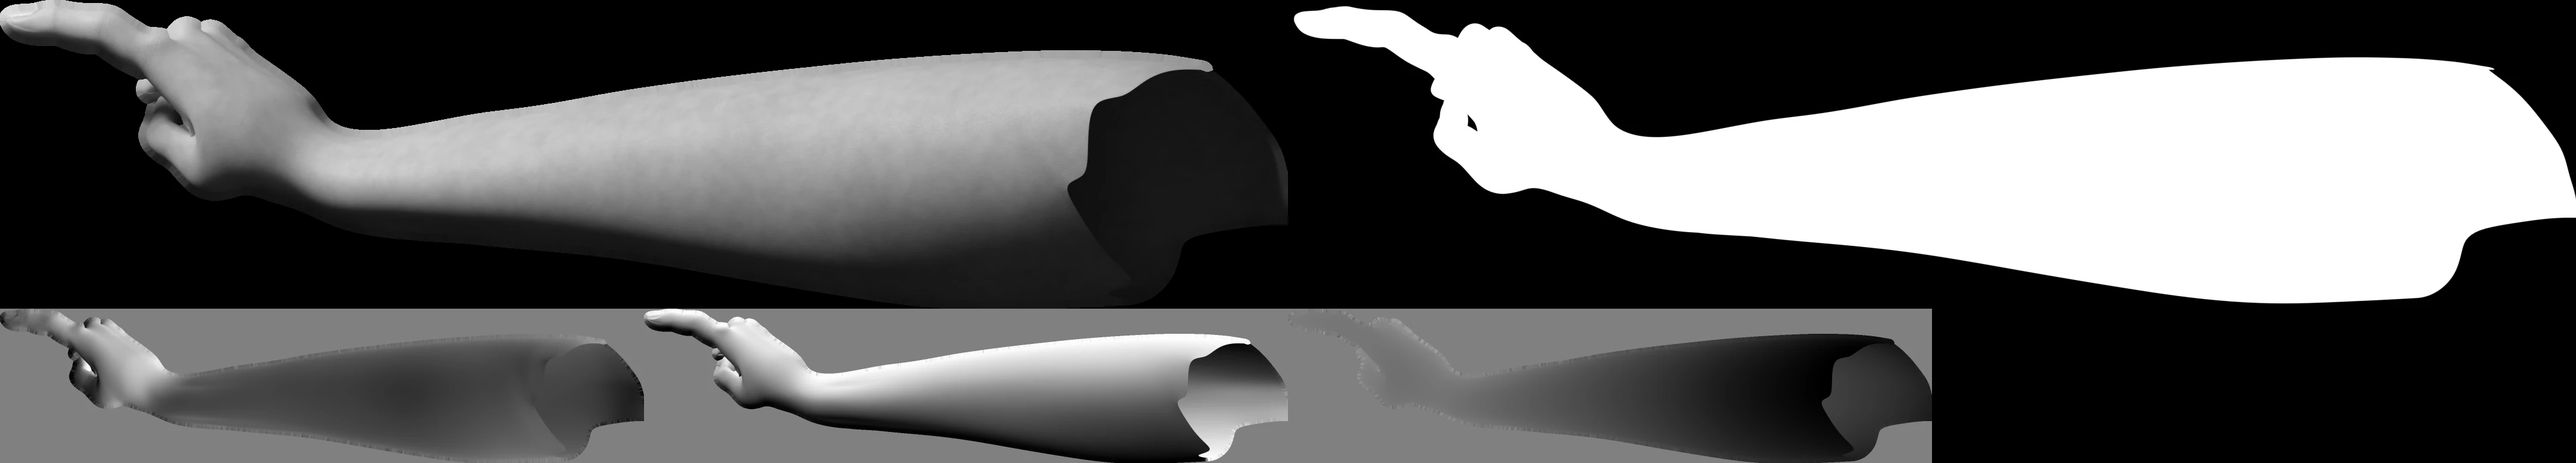
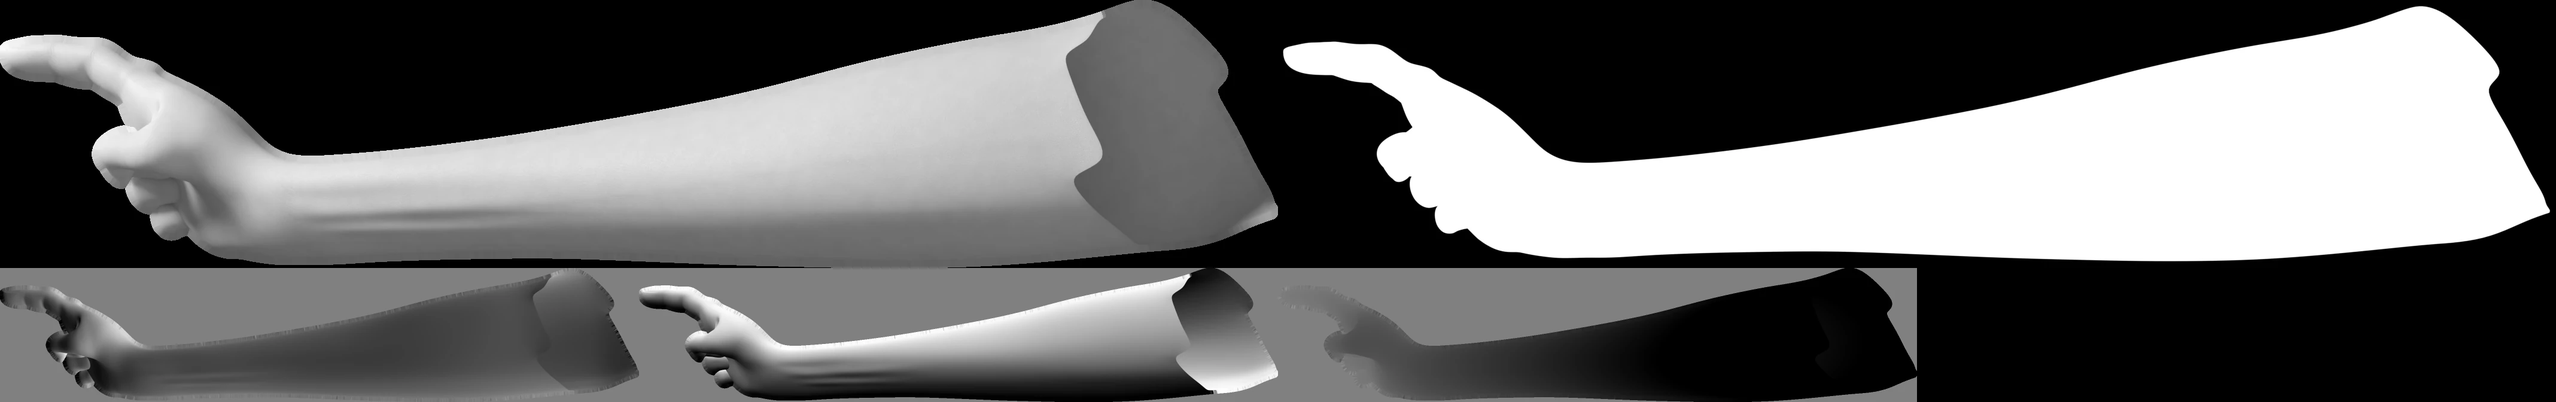
Hand-Pässe siebter Durchgang: Finger per FK um die Kante gelegt mit Kuppen auf dem Rahmen und Lücken 7-11 px, Handgröße 0,88, Daumen 69° über das CMC-Gelenk, Ballen ohne Kerbe, Handgelenk-Taille und Hypothenar, Zeigehand gedreht mit gestuften Fingern und geschlossenem Loch, Unterarm 42,6° mit teilwe

diff --git a/design/HAND.md b/design/HAND.md
@@ -1,30 +1,32 @@
 # HAND: realistische Hände aus Blender
 
-Stand 2026-10-07, sechster Durchgang (Branch `hand-v2`). Die beiden Hände der Engine (Handy-Hand `holdBack`/`holdFront`, Zeigehand `point`) kommen aus gerenderten Daten-Pässen (Leuchtdichte, Alpha, Normale, Tiefe); die Engine zeichnet daraus weiter Halbton-Punkte mit Zeigerlicht. Struktur wie in der Design-Referenz: linke Hand hält das Handy von hinten, Daumen schräg über der linken Rahmenkante, breiter Daumenballen links bis zur Handyunterkante, gestaffelte Fingerkuppen am rechten Rand, Handgelenk und Unterarm laufen unter dem Handy fast senkrecht nach unten; rechte Zeigehand von unten rechts, Zeigefinger steil zur Spitze bei (794, 301), übrige Finger eingerollt, Daumen angelegt, Faust vor dem Bildschirm, Unterarm in etwa 45° zur unteren rechten Ecke.
+Stand 2026-10-07, siebter Durchgang (Branch `hand-v2`). Die beiden Hände der Engine (Handy-Hand `holdBack`/`holdFront`, Zeigehand `point`) kommen aus gerenderten Daten-Pässen (Leuchtdichte, Alpha, Normale, Tiefe); die Engine zeichnet daraus weiter Halbton-Punkte mit Zeigerlicht. Struktur wie in der Design-Referenz: linke Hand hält das Handy von hinten, Daumen schräg über der linken Rahmenkante, breiter Daumenballen links bis zur Handyunterkante, gestaffelte Fingerkuppen am rechten Rand, Handgelenk und Unterarm laufen unter dem Handy fast senkrecht nach unten; rechte Zeigehand von unten rechts, Zeigefinger steil zur Spitze bei (794, 301), übrige Finger eingerollt, Daumen angelegt, Faust vor dem Bildschirm, Unterarm in etwa 45° zur unteren rechten Ecke.
 
-## 0. Was sich im sechsten Durchgang geändert hat
+## 0. Was sich im siebten Durchgang geändert hat
 
-Die Jury hat den fünften Stand (c961d10) mit 5/10 bewertet. Modell (MPFB-Mann), Rig, Pass-Format und Shader bleiben; geändert sind Netz-Korrekturen, Gewichte, Posen, Haut und Messung. Vergleich vorher/nachher: `archiv/hand/v3/doc4/vorher_nachher.png`.
+Die Jury hat den sechsten Stand (8381b42) mit 5/10 bewertet und elf Punkte genannt. Modell (MPFB-Mann), Rig, Pass-Format und Shader bleiben; neu sind die Pose der Handy-Hand (Finger per FK statt IK), die Handgröße, Netzkorrekturen am Daumenballen und Handgelenk, die Zeigehand-Drehung, das Licht der Zeigehand und die Hautfalten. Vergleich und Ausschnitte (Referenz | vorher | neu Halbton | neu Luminanz, 2-fach): `archiv/hand/v3/doc7/`.
 
-- **Hautkeil über dem Daumen:** stammte vom Zeigefinger-Mittelhandknochen hinter dem Handy, der links vom Rahmen über der Daumenkuppe hervorschaute. Die Pose hält ihn jetzt rechts vom Rahmen (Strafterm `wedge`, 20 je Punkt), und `render4.py` maskiert zusätzlich alle Nicht-Daumen-Punkte hinter der Handy-Vorderseite links von x 656 oberhalb der Daumenkuppe als Holdout (Attribut `hold`). Links vom Rahmen ragt oberhalb der Kuppe nichts mehr heraus.
-- **Einschnürung unter dem Daumenballen:** Ursache war das Daumengrundglied, das als Wurst vor dem Handy bis y 680 hing, während das Handgelenk dahinter weiter rechts lag. Neu: Ziel für das Daumen-Grundgelenk (MCP) links unten am Rahmen, Hand um die Längsachse auf −27° gerollt, Handgelenk-Ziel x 640, Konturterm je 20-px-Band (x 560–590, ab y 660 höchstens 570) mit Glattheitsterm (Sprung ≤ 6 px). Gemessen aus `a` (`v3/scripts/leftrows.py`): linke Kontur von y 560 bis 790 zwischen x 559 und 573, Zeile zu Zeile höchstens 4 px Änderung, kein Hals, keine waagerechte Unterkante.
-- **Daumen und Ballen schlanker** (`v3/scripts/sculpt4.py`, im Ruhenetz): Daumen-Grund-/Endglied radial auf 0,72/0,86 um die Knochenachse, Ballen um den Daumen-Mittelhandknochen auf 0,6 eingezogen (zur Handwurzel hin auslaufend 1,25–1,45, damit kein Absatz entsteht). Daumen-Endgelenk per Taubin-Glättung (ohne Volumenverlust) entknotet, IP-Beugung auf höchstens 40° begrenzt (die 72° des fünften Stands quetschten die Haut hinter dem Nagel zu einem Knoten). Keine Venen am Daumen.
-- **Kuppen rechts:** Zeige-, Mittel-, Ring- und kleiner Finger per IK mit vier Knochen (Mittelhand + drei Glieder; Mittelhandknochen ±25°/±12° begrenzt), damit auch Zeige- und kleiner Finger um die Kante reichen; Strafterm für sichtbare Punkte rechts vom Rahmen außerhalb ±28 px um die Ziele (Lücken, kein Schwanz). Optimiert auf dem unterteilten Netz (29 305 Punkte), Zählterme durch die Dichte (16) geteilt.
-- **Gelenkfalten:** Hülle 1,9 mm statt 4,5 mm, Abstand 1,5 mm, also 2–3 flache Querfalten an PIP/DIP/IP statt vieler paralleler Riefen; Daumen-MCP schwächer.
-- **Zeigehand:** Daumen per eigener Optimierung (`opt_pthumb.py`, Raster + Nelder-Mead, Durchdringung per BVH) angelegt, Spitze am Mittelglied des Mittelfingers. Hand um die Zeigefingerachse auf −80° gerollt: Sicht auf Handrücken mit Knöchel-Plateaus, eingerollte Finger liegen hinter der Hand, Faust in der Soll-Box. Größe 0,44 statt 0,42. Unterarm weniger gestreckt (1,5/1,3 statt 1,9/1,4), dafür 1,2–1,3-fach dicker; Strecksehnen und MCP-Knöchel zusätzlich modelliert (`sculpt4.py`, `tendons`), Brachioradialis-Masse proximal +22 %.
-- **Haut** (`v3/scripts/skin4.py`): zusätzlich großflächige Tonvariation (Noise 22/m, Overlay 0,3), Rauigkeit 0,44–0,58 mit Noise statt konstant 0,6, Specular 0,42 statt 0,28 (feuchter Hautglanz statt Gips), Bump 0,42; Nägel 0,36 Rauigkeit mit weicher Glanzlinie. Poren (Voronoi 0,45 mm) und Falten bleiben unter der Halbtonzelle (2,5 px ≈ 0,6 mm).
+- **Kuppen als liegende Fingerglieder:** Die Finger 2–5 werden nicht mehr per IK an Punkte neben der Kante gezogen (das ergab von vorn gesehene Halbkuppeln), sondern je Finger per FK gelöst (`v3/scripts/fing7.py`: Raster + Nelder-Mead über MCP-Beugung, Abspreizung, PIP, DIP; Kosten: Spitze vor dem Rahmen, Durchdringung des Handys, Überstand, Höhe, Bildschirm frei). Die Handlage selbst kommt aus einem Raster über Handgelenk, Richtung, Neigung, Rollen und Handgelenk-Abweichung mit Strafterm für den Handteller im Handy. Die Fingerglieder liegen jetzt schräg um die Kante, die Kuppen greifen auf den Rahmen (bis x ≈ 905–935) und zeigen nach links unten; Mittel- und Endglied sind seitlich zu sehen. Grundglieder 1,04-fach lang, Finger 0,9-fach schlanker (`fsc`, damit die Lücken bleiben).
+- **Handgröße 0,88** statt 1,0 des MPFB-Mannes: Nur so passen Daumenkuppe (y ≈ 390–410), Kuppenreihe (y 220–480) und Handgelenk (y ≈ 770) gleichzeitig in die Referenz-Komposition; bei 1,0 stand der Daumen 13 mm zu hoch oder musste im MCP 78° geknickt werden.
+- **Daumen über das CMC-Gelenk:** MCP-Beugung von 78° auf 41° begrenzt (`mcp_max`), die Neigung kommt aus dem Daumen-Mittelhandknochen; Grund- und Endglied jetzt **69°/69°** (vorher 85°/71°). Ziele für Spitze und IP-Gelenk in `fing7.py` (`thumb.tip`, `thumb.ip`).
+- **Daumenballen als eine Form, Handgelenk-Taille, Hypothenar** (`v3/scripts/sculpt7.py`, Ruhenetz): Ballen um den Daumen-Mittelhandknochen 0,9 statt 0,6 (keine Kerbe unter dem Daumen-MCP), Handgelenk um die Falte radial-ulnar auf 0,84 eingezogen, Hypothenar-Rundung 3,5 mm am ulnaren Handballen. Dazu posenbezogene Korrektur (`v3/scripts/fix7.py`): Verschiebungen im Bildraum der fertigen Pose über die Skinning-Matrizen ins Ruhenetz zurückgerechnet (Wulst am Daumen-MCP 2 mm flacher, Übergang Ballen–Handgelenk per Taubin geglättet). Ergebnis `hands_sc7h.blend`.
+- **Holdout-Kante unten:** Im Haltehand-Pass gibt es keinen Holdout der Zeigehand; die Haltehand ist dort vollständig gerendert. Die gerade Diagonale von der Handy-Ecke war die ulnare Handkante selbst; sie verläuft jetzt als S (Hypothenar-Rundung, Taille, Unterarm). Die waagerechte Kante bei y ≈ 707 ist die Handy-Unterkante (Handy-Holdout 1 % kürzer als das DOM) und liegt unter dem gezeichneten Rahmen.
+- **Zeigehand:** um die Zeigefingerachse von −80° auf −140° gedreht (Sicht schräg auf die Handfläche): Daumen als eigene Form oben auf der Faust, darunter zwei weitere gestufte eingerollte Finger mit dunklen Fugen; das Loch bei (838, 487) ist geschlossen (Alpha dort 1,0). Unterarm 4° flacher (`aang −4`) und schlanker (Unterarmknochen 0,98/1,02 dick statt 1,2/1,3): 42,6° zur Ecke, Tab „Austausch“ zu 39 % frei.
+- **Zeigehand-Licht:** Fülllicht 4,0 statt 0,9, Welt 0,03 (`lights/LP7.json`), Packen mit `--gain 0.88 --lgamma 0.68`: Leuchtdichte über dem Bildschirm im Mittel **165** (vorher 135), Maximum 249, Anteil ≥ 250 = 0; im Halbton-Bild (1280 × 800) Mittel der Zeigehand über dem Bildschirm **154** (vorher 138).
+- **Haut** (`v3/scripts/skin7.py`): Gelenkfalten als 2–3 Bögen (Phase um 0,035 · seitlicher Abstand² gebogen, Rauschen in der Phase, Rille `max(0, cos)^4` mit weicher Schulter, Tiefe je Falte per Rauschen 0,45–1,0, neues Attribut `jl`); großflächige Tonvariation halbiert und gröber (Noise 12/m, Overlay 0,15, Flecken 0,2 statt 0,34); Wolkenrauschen im Relief durch feine Rauigkeit ersetzt (Noise 1600/m, 0,18).
+- **Engine:** Die Verblassen-Werte in `drawHands` (`hero.js`, Zeile 221: `300`/`420`) müssen weiter auf `520`/`560` gesetzt werden; die Engine war nicht Teil dieses Durchgangs (nur Pässe und diese Datei).
 
-Grundlage aus dem fünften Durchgang (weiter gültig): MPFB-Mann, Rig `default` mit detailed helpers, Herauslösen der Unterarme (`extract.py`), Unterteilung 2 (`bake_sub.py`), `sculpt3.py` (Beugesehnen, Brachioradialis, Elle-Kopf, Strecksehnen, Knöchel, Fingerbeeren, eigene Nagelmaske), Corrective Smooth + Unterteilung 1 beim Render, Licht ohne Rim, Tonkurve mit weicher Schulter (`pack5.py`).
+Grundlage aus dem fünften und sechsten Durchgang (weiter gültig): MPFB-Mann, Rig `default` mit detailed helpers, Herauslösen der Unterarme (`extract.py`), Unterteilung 2 (`bake_sub.py`), `sculpt3.py` (Beugesehnen, Brachioradialis, Elle-Kopf, Strecksehnen, Knöchel, Fingerbeeren, eigene Nagelmaske), Corrective Smooth + Unterteilung 1 beim Render, Licht ohne Rim, Tonkurve mit weicher Schulter (`pack5.py`).
 
 ## 1. Dateien
 
 | Datei | Inhalt | Größe |
 |---|---|---|
-| `public/hand/hold.webp` + `hold.json` | Hand, die das Handy hält (Atlas 1960 × 2658, Kachel 980 × 1772, Maßstab 1,5, `origin [341,3, 218,7]`, `bottomY 1400`) | 61 kB |
-| `public/hand/point.webp` + `point.json` | Zeigehand als Sprite (Atlas 4304 × 774, Kachel 2152 × 516, Maßstab 1,0, `origin [−12, −36]`) | 58 kB |
-| Summe | | 119 kB (Grenze 600 kB) |
+| `public/hand/hold.webp` + `hold.json` | Hand, die das Handy hält (Atlas 1792 × 2676, Kachel 896 × 1784, Maßstab 1,5, `origin [410,7, 210,7]`, `bottomY 1400`) | 61 kB |
+| `public/hand/point.webp` + `point.json` | Zeigehand als Sprite (Atlas 4272 × 672, Kachel 2136 × 448, Maßstab 1,0, `origin [−8, −96]`) | 51 kB |
+| Summe | | 112 kB (Grenze 600 kB) |
 
-Schlüssel, Kachelnamen, Kodierung, `space`, `phone`, `screen`, `bottomY` und die Bühnenkoordinaten sind unverändert; geändert haben sich nur Kachelmaße, `origin` und Inhalt. Nichts ist abgeschnitten: die Handy-Hand endet unten an `bottomY 1400`, der Unterarm der Zeigehand reicht 1180 Bühnen-px weit (Sprite 2139 px × 0,55) und damit über das Verblassen (520 + 560) hinaus.
+Schlüssel, Kachelnamen, Kodierung, `space`, `phone`, `screen`, `bottomY` und die Bühnenkoordinaten sind unverändert; geändert haben sich nur Kachelmaße, `origin` und Inhalt. Nichts ist abgeschnitten: die Handy-Hand endet unten an `bottomY 1400`, der Unterarm der Zeigehand reicht 1170 Bühnen-px weit (Sprite 2128 px × 0,55) und damit über das Verblassen (520 + 560) hinaus.
 
 ## 2. Koordinaten
 
@@ -49,30 +51,30 @@ Lage in der Bühne: `origin` (Bühnen-px der oberen linken Ecke von `lum`/`a`) u
 
 ## 4. Handy-Hand (`hold`)
 
-Linke Hand im Bild (MPFB-Rechtshand hinter der Spiegelkamera), Handgröße 1,0 des MPFB-Mannes (fünfter Stand 1,06). Gemessen im Bühnenraum aus `a`/`origin` (`leftrows.py`, `measure4.py`, `hold3.py`; Soll aus der Referenz in Klammern):
+Linke Hand im Bild (MPFB-Rechtshand hinter der Spiegelkamera), Handgröße 0,88 des MPFB-Mannes. Gemessen im Bühnenraum aus `a`/`origin` (`v3/scripts/measure7.py`, `leftrows.py`, `thprobe7.py`; Soll aus der Referenz in Klammern):
 
-- **Daumen:** äußerster Punkt vor dem Handy bei y 450, **21 px** über dem Rahmen (Soll 15–25 px, y 400–460); obere Kontur der Kuppe ab y 420. Endglied 71°, Grundglied 85° zur Waagerechten, IP 40° gebeugt, Nagel zur Kamera.
-- **Linke Kontur (Daumenballen bis Handgelenk):** x 629 (y 420, Kuppe) → 590 (y 480) → 573 (y 550) → **559 (y 610)** → 569 (y 660) → 572 (y 700) → 559 (y 790). Durchgehend leicht konvex, ohne Absatz bis unter die Handyunterkante (Soll ≈ 570, ≥ 560).
-- **Kuppen rechts:** vier Fingerenden mit Lücken; y-Bereiche rechts von x 953: 229–279 / 294–347 / 372–423 / 439–500, Lücken **15 / 25 / 16 px**, Überstand über x 950: **29 / 33 / 33 / 29 px** (Soll 28–48), kleiner Finger am kürzesten. IK-Ziele der Fingerspitzen (972, 246), (974, 326), (968, 402), (966, 476).
-- **Handgelenk und Unterarm:** Handgelenk-Knochen bei (659, 797), Unterarm 10° aus der Senkrechten nach links unten, bei y 800 von x 556 bis 767 (211 px = 50 mm), konisch zum Ellbogen hin, Sehnen und Beugefalten am Handgelenk.
-- Die Handfläche liegt hinter dem Handy (Holdout). Links vom Rahmen oberhalb der Daumenkuppe ist nichts mehr sichtbar (Pose + Maske `hold`).
+- **Daumen:** Grundglied **69°**, Endglied **69°** zur Waagerechten (Soll 60–70°), MCP 41°, IP 47° gebeugt, Nagel zur Kamera. Äußerster Punkt vor dem Handy **18 px** über dem Rahmen bei y 406, obere Kontur der Kuppe ab y 382 (Soll 15–25 px, y 400–460).
+- **Linke Kontur (Daumen, Ballen, Handgelenk):** x 571 (y 500) → 557 (y 530–540, Daumen-MCP) → 563 (y 600) → 571 (y 640) → 585 (y 690–730, Taille) → 577 (y 770) → 570 (y 790). Ab der Taille läuft der Unterarm wieder nach links aus; kein Wert unter 557.
+- **Kuppen rechts** (Zeilen mit Alpha rechts von x 950): y **220–283 / 290–345 / 355–411 / 422–479**, Höhe 63/55/56/57 px, Überstand über x 950 **45/47/45/47 px**, Länge einschließlich Teil auf dem Rahmen 49/62/56/50 px, Lücken **7/10/11 px** (Soll 6–12).
+- **Unter dem Handy** (Breite der Hand je Zeile): y 710 x 585–815 (230 px), y 740 583–781 (198), y 760 580–751 (171), y 790 570–724 (154): Handgelenk 0,67 der Breite an der Handy-Unterkante (Soll ≈ 0,6). Rechte (ulnare) Kontur 815 → 806 → 796 → 781 → 766 → 751 → 738 → 729 → 724: erst flach (Hypothenar), dann steiler, dann wieder flach (Taille) als leichtes S.
+- **Unterarm:** Handgelenk-Knochen bei (654, 766), Unterarm 6° aus der Senkrechten nach links unten.
+- Die Handfläche liegt hinter dem Handy (Holdout). Links vom Rahmen oberhalb der Daumenkuppe ist nichts sichtbar (Pose + Maske `hold`).
 
-**Vorn/hinten** wie bisher im Shader aus `z` und Handy-Silhouette (`vorne = sdf < 4 && z < 1,5 mm`); vorne liegt nur die Daumenkuppe.
+**Vorn/hinten** wie bisher im Shader aus `z` und Handy-Silhouette (`vorne = sdf < 4 && z < 1,5 mm`); vorne liegen die Daumenkuppe und die Fingerkuppen auf dem rechten Rahmen.
 
 ## 5. Zeigehand (`point`)
 
-Rechte Hand im Bild (MPFB-Linkshand hinter der Spiegelkamera), Handgröße 0,44 des MPFB-Mannes (die Referenz zeigt die Zeigehand deutlich kleiner als die haltende Hand). Pose: Zeigefinger fast gestreckt (MCP −2°, PIP 10°, DIP 6°), Mittel-/Ring-/kleiner Finger eingerollt (78/100/50, 82/100/50, 86/95/48), **Daumen angelegt** (`finger1-1 [28,6, 26,3, 32,9]`, `finger1-2 [53,5, 0, −15,2]`, `finger1-3 [40, 0, 0]`, Spitze am Mittelglied des Mittelfingers, kollisionsfrei), Hand auf −80° um die Zeigefingerachse gerollt (Sicht auf Handrücken, Knöchel oben, eingerollte Finger hinter der Hand), Zeigefinger 12° in die Bildschirmebene geneigt, Unterarm 25° zur Kamera ansteigend, Unterarmknochen 1,5/1,3-fach lang und 1,2/1,3-fach dick.
+Rechte Hand im Bild (MPFB-Linkshand hinter der Spiegelkamera), Handgröße 0,44 des MPFB-Mannes. Pose: Zeigefinger fast gestreckt (MCP −2°, PIP 10°, DIP 6°), Mittel-/Ring-/kleiner Finger eingerollt (78/100/50, 82/100/50, 86/95/48), Daumen angelegt (`finger1-1 [28,6, 26,3, 32,9]`, `finger1-2 [53,5, 0, −15,2]`, `finger1-3 [40, 0, 0]`), Hand auf **−140°** um die Zeigefingerachse gerollt (schräge Sicht auf die Handfläche: Daumen und zwei eingerollte Finger gestuft unter dem Zeigefinger), Zeigefinger 12° in die Bildschirmebene geneigt, Unterarm 25° zur Kamera ansteigend und 4° flacher als die Engine-Richtung (`aang −4`), Unterarmknochen 1,5/1,3-fach lang, 0,98/1,02-fach dick. Spec: `v3/q7_pa-4.json`.
 
-- Sprite-Raum unverändert: Ursprung = Fingerspitze, `x` = Richtung Arm, `y` nach unten = Seite der eingerollten Finger; `origin [−12, −36]`, Kachel 2152 × 516 bei Maßstab 1,0 (7,62 Sprite-px/mm, mit `PS 0,55` = 4,19 Bühnen-px/mm wie die Handy-Ebene).
+- Sprite-Raum unverändert: Ursprung = Fingerspitze, `x` = Richtung Arm, `y` nach unten = Seite der eingerollten Finger; `origin [−8, −96]`, Kachel 2136 × 448 bei Maßstab 1,0 (7,62 Sprite-px/mm, mit `PS 0,55` = 4,19 Bühnen-px/mm wie die Handy-Ebene).
 - Platzierung wie in der Engine (`u = normalize(1460 − ht.x, 1020 − ht.y)` usw., Abschnitt 6).
-- **Messwerte bei Spitze (794, 301)** (`v3/scripts/fistbox.py`, `measure4.py`): Zeigefinger **52°** über der Waagerechten (Soll 50–55°); Faust einschließlich Zeigefingerwurzel und Handgelenk **x 798–926**, y 336–550 (Soll Faust x 800–930, y 360–510; fünfter Stand x 754–930); Unterarm **45°** zur Ecke, 118 px breit. Breite quer zum Arm (Sprite-px): Handgelenk 147, +150 px 175, +300 px 211 (1,43-fach, Brachioradialis-Bauch), +600 px 295. Handgelenk zu Hand (inkl. eingerollter Finger) 0,59; zur Mittelhand allein ≈ 0,65.
-- Die Textanfänge der Liste („Küche wischen“, „Mikas Bruder …“) bleiben frei; die Faust beginnt bei x 798.
+- **Messwerte bei Spitze (794, 301)** (`v3/scripts/fistbox.py`, `fistbox7.py`): Zeigefinger **52,4°** über der Waagerechten (Soll 50–55°); Faust **x 777–895, y 336–550** (Soll x 800–930, y 360–510; Referenz-Faust beginnt bei x ≈ 785); Unterarm **42,6°** zur Ecke, 105 px breit; Tab „Austausch“ (x 875–935, y 668–692) zu **61 %** bedeckt, also teilweise frei (vorher 83 %); Loch bei (838, 487) geschlossen (Alpha-Minimum im 20-px-Fenster 1,0, vorher 0).
+- **Helligkeit:** Leuchtdichte über dem Bildschirm im Mittel 165, 5-%-Perzentil 98, Maximum 249, Anteil ≥ 250 = 0. Im Halbton-Bild Mittel 154.
 - **Verblassen:** wie im vierten Durchgang muss die Engine `300`/`420` in `drawHands` auf **`520`/`560`** setzen (der Referenz-Shader `v2/scripts/preview.html` macht das über `fs`/`fl`).
-- Helligkeit: Perzentil 99,5 → 0,8 mit weicher Schulter, keine Rampe mehr.
 
 ## 6. Halbton-Shader (Referenz, aus `preview.html`)
 
-Lauffähige Referenz: `/Users/abu/Company/archiv/hand/v2/scripts/preview.html` (Aufruf: Ordner `archiv/hand` mit `python3 -m http.server`, dann `/v2/scripts/preview.html?b=../out/<ordner>/`; Parameter `ps`, `g`, `con`, `rim`, `view`, `fs`/`fl` (Verblassen der Zeigehand), `ascii=1`, `mx/my/px/py`). Geprüft bei 1440 × 900 und 390 × 844 (Ausschnitt `view=560,40,540,1170`). Vergleichsbild (Design / Halbton / Luminanz): `archiv/hand/v3/doc4/vergleich.png`.
+Lauffähige Referenz: `/Users/abu/Company/archiv/hand/v2/scripts/preview.html` (Aufruf: Ordner `archiv/hand` mit `python3 -m http.server`, dann `/v2/scripts/preview.html?b=../out/<ordner>/`; Parameter `ps`, `g`, `con`, `rim`, `view`, `fs`/`fl` (Verblassen der Zeigehand), `ascii=1`, `mx/my/px/py`). Geprüft bei 1440 × 900 und 390 × 844 (Ausschnitt `view=560,40,540,1170`). Vergleichsbild (Design / Halbton / Luminanz): `archiv/hand/v3/doc7/vergleich.png`, Ausschnitte `doc7/crop_{kuppen,faust,daumen,handgelenk}.png`.
 
 `dot()`, `HB`, `hsh`, `cl`, `ss`, `lightF`, `ink`, `step 2,5` bleiben aus der Engine. Neu ist nur die Herkunft von `v` (Ton 0..1) je Zelle. Abgestimmte Konstanten: `GAM 0,6`, `CON 1,25`, `RIM 0,45`, `EDW 3,4`, `EDV 1,0`, `JIT 0,15` (Engine: 0,4; weniger Zufall = lesbare Finger).
 
@@ -149,23 +151,26 @@ Arbeitsordner `/Users/abu/Company/archiv/hand/v3/` (Blender 5.2 mit MPFB 2.0.17,
 
 - Modell: `mk_mpfb.py` (Mensch, Makros eingebacken, Rig `default` mit **detailed helpers**, sonst passt MPFB das Rig nicht an die Makros an) → `extract.py` → `bake_sub.py` → `sculpt3.py` → `hands_sc.blend` → `sculpt4.py` (`blender -b hands_sc.blend --python scripts/sculpt4.py -- hands_sc4.blend 190`; grobes Netz für Schnelltests: `hands_male.blend` → `hands_male4.blend` mit 12) → `hands_sc4.blend` (Objekte `ArmL`, `ArmR`, Rig `Human.rig`).
 - Bone-Achsen im MPFB-Rig: Finger `X` = Beugung (+), `Z` = Abspreizung; Daumen `finger1-*`: `X` quer über die Handfläche, `−Z` zur Handfläche; `wrist`: `X` radial (+), `Z` Beugung (+). `finger1` = Daumen, `finger2..5` = Zeige- bis kleiner Finger, `metacarpal1..4` = Mittelhand Zeige- bis kleiner Finger.
-- Posen: `q4_hold_final.json` (Handgelenk, Richtung, Skala 1,0, FK für Handgelenk und Daumen, IK-Ziele der Kuppen mit Kette 4), `q4_point_final.json`. Licht: `lights/L2.json` (Handy-Hand), `lights/LP1.json` (Zeigehand). Cycles 192 Samples, Entrauschen, transparenter Film, Pixelfilter 1,0. Render mit `render4.py` (Haut `skin4.py`, Keil-Maske).
+- Netz siebter Durchgang: `blender -b hands_sc.blend --python scripts/sculpt7.py -- hands_sc7b.blend 190 0.9 0.84 3.5 4.5 0.038` (Ballen, Taille, Hypothenar), dann zweimal `fix7.py` (posenbezogen) → `hands_sc7f.blend` → `hands_sc7h.blend`.
+- Posen: `q/q7_h23.json` (Handy-Hand: Handgelenk, Richtung, Skala 0,88, `fsc [1,04, 0,9]`, FK für Handgelenk, Daumen und alle Finger), `q7_pa-4.json` (Zeigehand). Licht: `lights/L2.json` (Handy-Hand), `lights/LP7.json` (Zeigehand). Cycles 192 Samples, Entrauschen, transparenter Film, Pixelfilter 1,0. Render mit `render7.py` (Haut `skin7.py`, Keil-Maske).
 
 ```
 cd /Users/abu/Company/archiv/hand/v3
-blender -b hands_sc4.blend --python scripts/opt_hold4.py -- q4_h19.json q/q4_h19_o.json 400   # Hand + Finger (dens 16)
-BL=hands_sc4.blend IT=600 ./qr.sh q4_h26        # Daumen (opt_thumb4.py, MCP-Ziel, IP <= 40°) + Schnellansicht
-blender -b hands_sc4.blend --python scripts/opt_pthumb.py -- qp4_2.json q/qp4_2.json 200   # Daumen Zeigehand
-BL=hands_sc4.blend ./rh4.sh F4h q4_hold_final.json 192 100 lights/L2.json     # Render + Pack Handy-Hand
-BL=hands_sc4.blend ./rp4.sh F4p q4_point_final.json 192 100 lights/LP1.json   # Render + Pack Zeigehand
-./comp.sh F4h F4p fin4                         # Packs zusammenlegen, Faust-Messung, Luminanz im Bühnenraum
-../v2/venv/bin/python scripts/leftrows.py out/fin4/pk    # linke Kontur je 10 px
-../v2/venv/bin/python scripts/measure4.py out/fin4/pk    # Kuppen, Lücken, Handgelenk/Unterarm
-../v2/venv/bin/python scripts/edgecheck.py out/fin4/pk hold   # Saum-Prüfung
-./ht.sh fin4                                   # Halbton 1280x800, 1440x900, 390x844
+blender -b hands_male4.blend --python scripts/fing7.py -- q7_h23.json q/q7_h23.json   # Handlage-Raster (hands), Finger je FK, Daumen
+./v7.sh q/q7_h23.json h23                      # Schnellansicht (Workbench, Netz wie im Render) vorne | Röntgen | Seite
+blender -b hands_sc7b.blend --python scripts/fix7.py -- q/q7_h17.json hands_sc7f.blend '[[584,600,12,3.5,-1,0]]'
+blender -b hands_sc7f.blend --python scripts/fix7.py -- q/q7_h23.json hands_sc7h.blend '[[552,556,12,-2.0,-1,0],{"smooth":[590,596,14,40]}]'
+BL=hands_sc7h.blend ./rh7.sh F7h q/q7_h23.json 192 100 lights/L2.json              # Render + Pack Handy-Hand
+LG=0.68 GAIN=0.88 BL=hands_sc7f.blend ./rp7.sh F7p q7_pa-4.json 192 100 lights/LP7.json   # Render + Pack Zeigehand
+./comp7.sh F7h F7p fin7                        # Packs zusammenlegen, Faust-Messung, Luminanz im Bühnenraum
+../v2/venv/bin/python scripts/measure7.py out/fin7/pk    # Kuppen, Lücken, Daumen, Breiten unter dem Handy
+../v2/venv/bin/python scripts/fistbox7.py out/fin7/pk    # Faust, Tab-Abdeckung, Loch, Helligkeit über dem Bildschirm
+../v2/venv/bin/python scripts/leftrows.py out/fin7/pk    # linke Kontur je 10 px
+./ht7.sh fin7                                  # Halbton 1280x800, 1440x900, 390x844
+../v2/venv/bin/python scripts/vergleich7.py    # Vergleich + Ausschnitte
 ```
 
-Halbton-Vorschau: Dateien nach `archiv/hand/v2/out/c_<tag>/` kopieren, Server `python3 -m http.server 4290` in `archiv/hand`, dann `v2/scripts/shot.mjs "b=../out/c_<tag>/&px=794&py=301&mx=794&my=301" out.png 1280 800 794 301` (`PAGE=v2/scripts/preview.html`). Geprüft bei 1280 × 800, 1440 × 900 und 390 × 844 (`view=560,40,540,1170`); Bilder in `archiv/hand/v3/doc4/` (`ht.sh` erledigt Kopie, Server und alle drei Größen).
+Halbton-Vorschau: Dateien nach `archiv/hand/v2/out/c_<tag>/` kopieren, Server `python3 -m http.server 4290` in `archiv/hand`, dann `v2/scripts/shot.mjs "b=../out/c_<tag>/&px=794&py=301&mx=794&my=301" out.png 1280 800 794 301` (`PAGE=v2/scripts/preview.html`). Geprüft bei 1280 × 800, 1440 × 900 und 390 × 844 (`view=560,40,540,1170`); Bilder in `archiv/hand/v3/doc7/` (`ht7.sh` erledigt Kopie, Server und alle drei Größen).
 
 Nicht mehrere Blender-Läufe mit GPU parallel starten (Metal: „Insufficient Memory“).
 
@@ -177,9 +182,12 @@ Basismodell: **MPFB 2.0.17** (MakeHuman Plugin for Blender), Ausgabe der Basis-A
 
 ## 10. Bekannte Grenzen
 
-- Die Zeigehand ist wie in der Referenz deutlich kleiner als die Handy-Hand (0,44 zu 1,0). In echter Perspektive wäre die vordere Hand eher größer; die Faust-Box der Referenz lässt kaum mehr zu.
-- Das Daumengrundglied steht steiler als in der Referenz (85° statt etwa 60–70°); ein schrägerer Daumen schiebt den Ballen wieder links über x 560 hinaus. Die Unterkante des Grundglieds liegt vor dem Ballen und zeichnet sich als weiche Falte ab (anatomisch richtig, aber sichtbar).
-- Lücken zwischen den Kuppen 15–25 px statt 6–12 px; die Kuppen sind von vorn gesehene Fingerenden ohne sichtbaren Nagel.
-- Die ulnare Kontur der Handy-Hand unter dem Handy läuft weiterhin als Gerade von der Handy-Ecke nach links unten; der Knick zur Unterarmkante liegt erst bei y ≈ 820, also unter der Bühnenkante, und wird im Bild größtenteils vom Unterarm der Zeigehand verdeckt.
+- Die Zeigehand ist wie in der Referenz deutlich kleiner als die Handy-Hand (0,44 zu 0,88). In echter Perspektive wäre die vordere Hand eher größer; die Faust-Box der Referenz lässt kaum mehr zu.
+- Kuppen: Die Fingerglieder liegen schräg um die Kante, aber die Hand steht 2–4 cm hinter dem Handy; die Spitzen erreichen den Rahmen nur am Rand (x ≈ 905–935), nicht flach auf dem Glas. Die Höhe je Kuppe ist 55–63 px statt der in der Referenz gezeichneten ≈ 30–45 px: Ein echter Finger ist 14–16 mm breit, schmaler geht es nur mit unrealistisch dünnen Fingern. Länge (49–62 px) und Höhe sind daher etwa gleich, nicht deutlich länger als hoch.
+- Daumen: Der Daumen-MCP zeichnet sich links weiter als flacher Wulst ab, weil das Daumengrundglied vor dem Ballen liegt (Verdeckungskante, keine Netzfalte); der Ballen darunter ist durchgehend, die Kerbe ist weg.
+- Die Faust beginnt bei x 777 (Soll ≥ 800, Referenz ≈ 785): Der angelegte Daumen liegt in der neuen Drehung links oben auf der Faust.
+- Unterarm der Zeigehand 42,6° statt 45°, damit der Tab „Austausch“ teilweise frei bleibt.
+- Der Halbton der Zeigehand über dem Bildschirm ist im Referenz-Shader ein gleichmäßiges Punktraster; heller als Mittel 154 wird er auch bei hellerem `lum` kaum, weil `tn`/`vd` im Shader die Tinte begrenzen.
 - `lum` ist für ein festes Licht gebacken; das Zeigerlicht verschiebt nur Glanz und Helligkeit. Der Halbton (Zelle 2,5 px) löst Poren und Gelenkfalten nicht auf; sie wirken nur in `lum`.
 - Haut ohne Haare und ohne echte Albedo-Texturen (MPFB-Hauttexturen sind nicht im Paket); Tonvariation und Poren sind prozedural.
+- `fix7.py` gilt für genau diese Pose; bei einer neuen Pose der Handy-Hand muss es mit den neuen Bildkoordinaten neu laufen.
